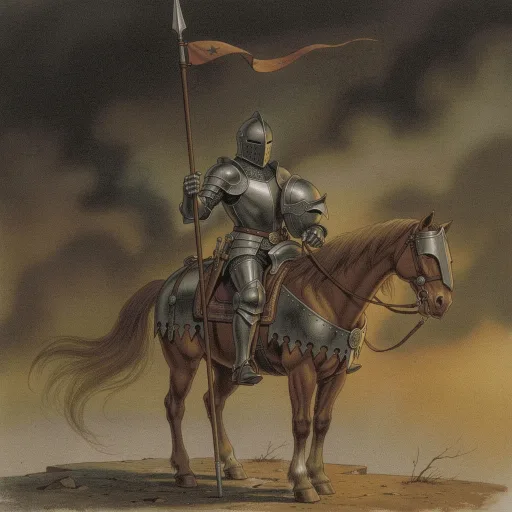
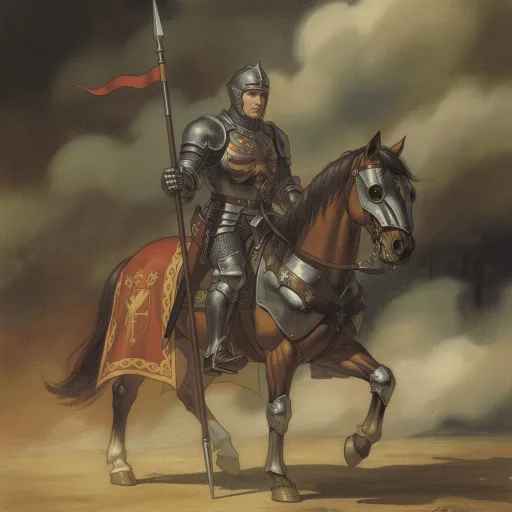
Michel's phone review: readable names, heads uncropped, young riders, friendlier doorway

diff --git a/src/ui/game.css b/src/ui/game.css
@@ -372,7 +372,7 @@ details.side-section:not([open]) > summary { border-bottom: none; }
 .gallery-arrow { font-size: 1.6rem; padding: 0 0.55rem; flex: none; align-self: center; min-height: 64px; }
 .gallery-lord { flex: 1; min-width: 0; text-align: center; display: flex; flex-direction: column; gap: 0.3rem; align-items: center; }
 .art-portrait-xl { display: flex; justify-content: center; }
-.art-portrait-xl img { width: min(240px, 52vw); height: auto; max-height: 34vh; object-fit: cover; border-radius: 8px; box-shadow: var(--shadow-deep); }
+.art-portrait-xl img { width: min(240px, 52vw); height: auto; max-height: 34vh; object-fit: cover; object-position: center 12%; border-radius: 8px; box-shadow: var(--shadow-deep); }
 .gallery-name { margin: 0; font-size: 1.35rem; color: var(--gold-bright); font-weight: 400; letter-spacing: 0.03em; }
 .gallery-blurb { max-width: 46ch; }
 .gallery-abilities { display: flex; flex-direction: column; gap: 0.35rem; width: 100%; }
@@ -458,10 +458,13 @@ details.side-section:not([open]) > summary { border-bottom: none; }
 .codex-entry { display: flex; gap: 0.65rem; padding: 0.5rem 0; border-top: 1px solid rgba(201, 162, 39, 0.12); }
 .codex-entry-glyph { color: var(--gold); flex: none; width: 30px; display: flex; justify-content: center; padding-top: 2px; }
 .art-codex-entry { flex: none; }
-.art-codex-entry img { width: 56px; height: 56px; object-fit: cover; border-radius: 5px; }
+.art-codex-entry img { width: 56px; height: 56px; object-fit: cover; object-position: center 18%; border-radius: 5px; }
 .codex-entry-body { min-width: 0; }
 .codex-entry-body p { margin: 0.15rem 0; }
-.codex-entry-title { font-weight: 600; color: var(--ink); }
+/* Card titles sit on the dark modal, never on vellum — they take gold,
+ * not ink (ink names vanished into the dark on phones; Michel caught it). */
+.codex-entry-title { font-weight: 600; color: var(--gold-bright); font-size: 0.98rem; }
+.codex-spell .codex-entry-title { color: var(--ember-bright); }
 .codex-spell-glyph { color: var(--ember-bright); }
 .codex-sealed { display: flex; align-items: baseline; gap: 0.35rem; margin: 0.25rem 0; }
 .codex-pager {
@@ -655,21 +658,21 @@ body.reduced-motion .battle-round-live .battle-round-losses .neg { animation: no
 .art-portrait { width: 76px; height: 95px; align-items: center; justify-content: center; flex: none; }
 .art-portrait-sm { width: 34px; height: 42px; align-items: center; justify-content: center; flex: none; }
 .art-portrait-sm .art-img {
-  width: 34px; height: 42px; object-fit: cover; border-radius: 3px;
+  width: 34px; height: 42px; object-fit: cover; object-position: center 15%; border-radius: 3px;
   border: 1px solid rgba(201, 162, 39, 0.5);
 }
 .art-portrait .art-img {
-  width: 76px; height: 95px; object-fit: cover; border-radius: 5px;
+  width: 76px; height: 95px; object-fit: cover; object-position: center 15%; border-radius: 5px;
   border: 1px solid rgba(201, 162, 39, 0.5); box-shadow: 0 2px 8px rgba(0,0,0,0.55);
 }
 .art-portrait-lg { width: 132px; height: 165px; align-items: center; justify-content: center; flex: none; }
 .art-portrait-lg .art-img {
-  width: 132px; height: 165px; object-fit: cover; border-radius: 6px;
+  width: 132px; height: 165px; object-fit: cover; object-position: center 15%; border-radius: 6px;
   border: 1px solid rgba(201, 162, 39, 0.5); box-shadow: var(--shadow-deep);
 }
 .art-class { width: 64px; height: 64px; align-items: center; justify-content: center; flex: none; }
 .art-class .art-img {
-  width: 64px; height: 64px; object-fit: cover; border-radius: 8px;
+  width: 64px; height: 64px; object-fit: cover; object-position: center 20%; border-radius: 8px;
   border: 1px solid rgba(201, 162, 39, 0.5); box-shadow: 0 2px 6px rgba(0,0,0,0.5);
 }
 @media (max-width: 480px) {

diff --git a/src/ui/panels/codex.ts b/src/ui/panels/codex.ts
@@ -280,7 +280,7 @@ function renderMagic(): HTMLElement {
           h('span', { class: 'small muted' },
             ` ${def.cost > 0 ? `${def.cost} Emberlight` : 'no Emberlight'}${def.cooldown > 0 ? ` · returns after ${def.cooldown} seasons` : ''}${def.riteCost > 0 ? ` · rite ${def.riteCost}` : ''}`)),
         h('p', { class: 'small' }, def.desc),
-        def.creedAffinity ? h('p', { class: 'small muted' }, `The ${CREEDS[def.creedAffinity].name} teaches this one first.`) : null,
+        def.creedAffinity ? h('p', { class: 'small muted' }, `${CREEDS[def.creedAffinity].name} teaches this one first.`) : null,
         h('p', { class: 'small italic muted' }, def.flavor),
       ),
     );

diff --git a/src/ui/screens/lobby.ts b/src/ui/screens/lobby.ts
@@ -96,7 +96,7 @@ export async function openOnlineLobby(app: App, invite?: { roomId: string; key: 
   if (!invite) history.replaceState(null, '', link);
   const screen = h('div', { class: 'room title-screen' },
     h('div', { class: 'title-center lobby-center' },
-      h('p', { class: 'title-over muted italic' }, 'An online war'),
+      h('p', { class: 'title-over muted italic' }, 'A war among friends'),
       h('h1', { class: 'title-display', style: { fontSize: 'clamp(1.5rem, 4vw, 2.4rem)' } }, 'The Muster Table'),
       h('p', { class: 'small muted', style: { maxWidth: '52ch', margin: '0.4rem auto' } },
         'One link seats everyone. The relay carries only ciphertext — the key never leaves this address bar. No accounts, no tracking, ever.'),

diff --git a/src/ui/screens/title.ts b/src/ui/screens/title.ts
@@ -105,7 +105,7 @@ export function renderTitle(app: App): void {
           },
         }, `Continue — ${newest.lords.split(',')[0]?.trim() ?? 'the war'}, season ${newest.turn}`)
       : null,
-    h('button', { class: 'btn title-btn', onclick: () => void openOnlineLobby(app) }, 'Online War'),
+    h('button', { class: 'btn title-btn', onclick: () => void openOnlineLobby(app) }, 'Play with Friends'),
     h('button', {
       class: 'btn title-btn',
       onclick: () => {

diff --git a/README.md b/README.md
@@ -49,7 +49,7 @@ Pick a lord in the painted gallery (twelve, in three creeds, each with a real te
 
 ## Three ways to war
 
-- **Online** — "Online War" on the title screen. One invite link seats up to six; turn clocks (relaxed / standard / blitz, bank + increment) keep a full war inside two hours. **The relay is blind:** every action is end-to-end encrypted with a key that lives only in the invite link's URL fragment. The server stores ciphertext and ordinals; it cannot read a single move. Reconnecting replays the encrypted log through the deterministic engine — you rejoin exactly where the war stands. Self-host the relay with `node server/relay.mjs`, the Dockerfile in `server/`, or the included Cloudflare Worker.
+- **Online** — "Play with Friends" on the title screen. One invite link seats up to six; turn clocks (relaxed / standard / blitz, bank + increment) keep a full war inside two hours. **The relay is blind:** every action is end-to-end encrypted with a key that lives only in the invite link's URL fragment. The server stores ciphertext and ordinals; it cannot read a single move. Reconnecting replays the encrypted log through the deterministic engine — you rejoin exactly where the war stands. Self-host the relay with `node server/relay.mjs`, the Dockerfile in `server/`, or the included Cloudflare Worker.
 - **Hotseat** — several mortals, one device; the map hides between turns.
 - **Courier** — war by letters: export the chronicle file after your turns, the other side loads it and plays on. A stalled online session degrades gracefully into this.
 
@@ -75,7 +75,7 @@ Some of the machinery is half the fun:
 - **The Illustrated Edition, one command.** Ninety-one painted plates in a late-80s game-manual style, generated against a single approved style anchor so the whole set reads as one painter's hand — and every slot is generated three to five times, reviewed against its brief, and only the best candidate ships (`scripts/gen-art.mjs --candidates` + `scripts/pick-art.mjs`). The procedural heraldry remains as the eternal fallback.
 - **A ghost with a voice.** The chronicler's ceremonies are spoken (`scripts/gen-audio.mjs`); the synth engine still covers every sound offline.
 
-Deeper reading: [`DECISIONS.md`](DECISIONS.md) (why things are the way they are), [`docs/ART.md`](docs/ART.md) (the whole art pipeline), [`CHANGELOG.md`](CHANGELOG.md), and [`STATE.md`](STATE.md) (the honest build log).
+Deeper reading: [`DECISIONS.md`](DECISIONS.md) (why things are the way they are), [`docs/ART.md`](docs/ART.md) (the whole art pipeline), [`CHANGELOG.md`](CHANGELOG.md).
 
 ## Credits & licenses
 